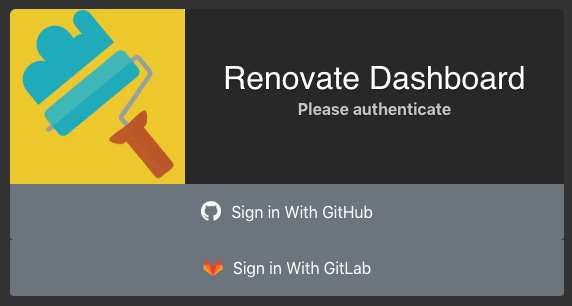
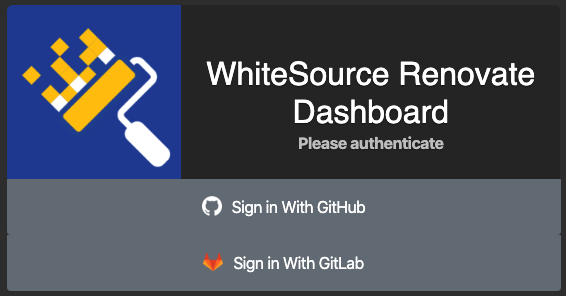
docs: update GitLab app install doc
Closes https://github.com/renovatebot/docs.renovatebot.com/issues/6

diff --git a/docs/usage/install-gitlab-app.md b/docs/usage/install-gitlab-app.md
@@ -7,11 +7,11 @@ description: How to install the Renovate GitLab App
 
 ### Overview
 
-Renovate runs as the user [@renovate-bot](https://gitlab.com/renovate-bot) on [gitlab.com](https://gitlab.com). To enable the hosted Renovate App on your GitLab.com project, you can do any of the following:
+WhiteSource Renovate runs as the user [@renovate-bot](https://gitlab.com/renovate-bot) on [gitlab.com](https://gitlab.com). To enable the hosted WhiteSource Renovate App on your GitLab.com project, you can do any of the following:
 
 - Add [@renovate-bot](https://gitlab.com/renovate-bot) as a Developer directly to each project, or
 - Add [@renovate-bot](https://gitlab.com/renovate-bot) to a team that has Developer access to the project
-- Install using the Renovate Dashboard's UI
+- Install using the WhiteSource Renovate Dashboard's UI
 
 ### Dashboard
 
@@ -19,7 +19,9 @@ First, sign into the [Dashboard](https://app.renovatebot.com/dashboard) using Gi
 
 ![Renovate Dashboard Sign In Screenshot](assets/images/dashboard-login.png)
 
-The sidebar will load a list of any already-installed repositories that you have access to, if there are any.
+If it is your first time signing in, you will be asked to submit WhiteSource's registration form after logging in.
+
+The Dashboard sidebar will load a list of any already-installed repositories that you have access to, if there are any.
 
 Now click the "Settings" icon ![Renovate Dashboard Settings icon](assets/images/dashboard-settings.png) at the top of the side bar and it will soon load a list of all GitLab.com repositories that you have admin rights to.
 
@@ -43,7 +45,7 @@ Whenever that screen is loaded, the Dashboard client will check every installed 
 
 ### Pricing
 
-The Renovate App is currently free for all GitLab projects. Later, charging for private repositories will be added and probably at the same pricing tiers as [the GitHub App](https://github.com/marketplace/renovate). We will provide at least one month's notice before implementing paid plans for private repositories. Public repositories will remain free.
+WhiteSource Renovate is free for both public and private repositories, so no payment is necessary.
 
 ### Details and Known Limitations
 
